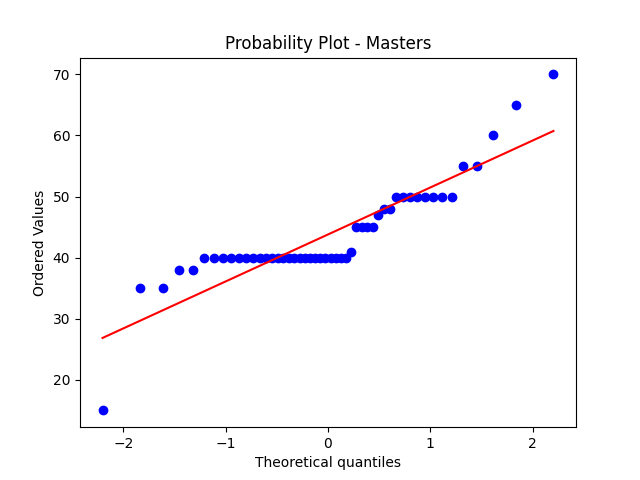
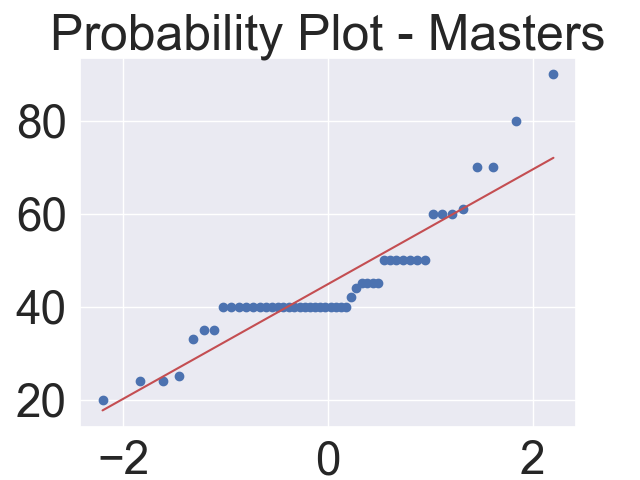
adjust

diff --git a/assetTesting.py b/assetTesting.py
@@ -7,10 +7,6 @@ import random
 from scipy.stats import chi2_contingency
 from scipy.stats import chi2
 
-# Numerical + categorical -> t-test
-# Chi-square -> 2 categorical
-# ANOVA test -> 2 numerical
-
 # ---------- Clean data ---------- #
 data = pd.read_csv("datasets3_csv.csv", sep=";", skipinitialspace=True)
 dataClean = data.copy()
@@ -48,27 +44,27 @@ evaluate = ['Income', 'Saving (Cash)', 'Property owner', 'Other asset']
 dataClean_categorical = dataClean.select_dtypes(exclude=['float'])
 dataClean_categorical.insert(0, 'Education (Year)', dataClean['Education (Year)'])
 
-# # Plotting diagram
-# for e in evaluate:
-#     for f in factors:
-#         g = sns.catplot(x=f, hue=e,
-#                         data=dataClean, kind='count',
-#                         height=8, aspect=2)
-#         g.fig.set_size_inches(30, 15)
-#         sns.set(font_scale=3)
-#
-#         for ax in g.axes.ravel():
-#             # add annotations
-#             for c in ax.containers:
-#                 if (f == 'Income'):
-#                     labels = [f'{(v.get_height() / 10):.1f}K' for v in c]
-#                     ax.bar_label(c, labels=labels, label_type='edge')
-#             if (f in long_factors):
-#                 ax.set_xticklabels(ax.get_xticklabels(), rotation=90)
-#
-#         plt.title(f'{f} vs {e} plot')
-#         plt.tick_params(axis='both', which='major', labelsize=14)
-#         plt.savefig(f'evaluateFactor/{f} vs {e}.png')
+# Plotting diagram
+for e in evaluate:
+    for f in factors:
+        g = sns.catplot(x=f, hue=e,
+                        data=dataClean, kind='count',
+                        height=8, aspect=2)
+        g.fig.set_size_inches(30, 15)
+        sns.set(font_scale=3)
+
+        for ax in g.axes.ravel():
+            # add annotations
+            for c in ax.containers:
+                if (f == 'Income'):
+                    labels = [f'{(v.get_height() / 10):.1f}K' for v in c]
+                    ax.bar_label(c, labels=labels, label_type='edge')
+            if (f in long_factors):
+                ax.set_xticklabels(ax.get_xticklabels(), rotation=90)
+
+        plt.title(f'{f} vs {e} plot')
+        plt.tick_params(axis='both', which='major', labelsize=14)
+        plt.savefig(f'evaluateFactor/{f} vs {e}.png')
 
 # Question Testing
 
@@ -167,23 +163,20 @@ for f in factors:
 
 # Anova Test: Average working hours versus education level
 # Q10:  What is the difference in average working hours among types of edu levels? - ANOVA
-# statistic, pvalue = stats.f_oneway(dataClean['Work hours per week'][dataClean['Education'] == 'Dropout'].head(2000),
-#                                     dataClean['Work hours per week'][dataClean['Education'] == 'HS-grad'].head(2000),
-#                                     dataClean['Work hours per week'][dataClean['Education'] == 'CommunityCollege'].head(2000),
-#                                     dataClean['Work hours per week'][dataClean['Education'] == 'Bachelor'].head(2000),
-#                                     dataClean['Work hours per week'][dataClean['Education'] == 'Postgrad'].head(2000))
 
-education_level = dataExtra["Education"]
-for column in education_level:
-    print("Education Level")
-    count = education_level.value_counts()
-    percent = education_level.value_counts(normalize=True).mul(100).round(2).astype(str) + '%'
-    edus_dataframe = pd.DataFrame({'Counts': count, 'Percent': percent})
-    edus_dataframe.to_csv('data_record/education_level_drop.csv')
-    print(pd.DataFrame({'Counts': count, 'Percent': percent}))
-    print('--------------------------------')
-    break
-
+# Group Education levels in 5 categories
+dropout = dataExtra['Work hours per week'][dataExtra['Education'] == 'Dropout'].head(2000)
+hsgrad = dataExtra['Work hours per week'][dataExtra['Education'] == 'HS-grad'].head(2000)
+community = dataExtra['Work hours per week'][dataExtra['Education'] == 'CommunityCollege'].head(2000)
+bachelors = dataExtra['Work hours per week'][dataExtra['Education'] == 'Bachelors'].head(2000)
+postgrad = dataExtra['Work hours per week'][dataExtra['Education'] == 'Postgrad'].head(2000)
+# Save them to csv file to test in jamovi
+dropout.to_csv('data_clean/dropout.csv')
+hsgrad.to_csv('data_clean/hsgrad.csv')
+community.to_csv('data_clean/com.csv')
+bachelors.to_csv('data_clean/bsc.csv')
+postgrad.to_csv('data_clean/postgrad.csv')
+# test ANOVA using Python library package scipy.stats
 statistic, pvalue = stats.f_oneway(dataExtra['Work hours per week'][dataExtra['Education'] == 'Dropout'].head(2000),
                                     dataExtra['Work hours per week'][dataExtra['Education'] == 'HS-grad'].head(2000),
                                     dataExtra['Work hours per week'][dataExtra['Education'] == 'CommunityCollege'].head(2000),
@@ -193,11 +186,11 @@ print('Q10:  What is the difference in average working hours among types of edu 
 print("f-statistic:" + str(statistic))
 print("p-value:" + str(pvalue))
 
-# # Plotting for ANOVA Test
-# edus = dataClean['Education'].unique()
-# for edu in edus:
-#     stats.probplot(dataClean[dataClean['Education'] == edu]['Work hours per week'].sample(50, replace=False), dist="norm", plot=plt)
-#     plt.title("Probability Plot - " +  edu)
-#     plt.savefig(f'anova_plot_wh_eduLevel/{edu}.png')
-#     plt.show()
+# Plotting for ANOVA Test
+edus = dataClean['Education'].unique()
+for edu in edus:
+    stats.probplot(dataClean[dataClean['Education'] == edu]['Work hours per week'].sample(50, replace=False), dist="norm", plot=plt)
+    plt.title("Probability Plot - " +  edu)
+    plt.savefig(f'anova_plot_wh_eduLevel/{edu}.png')
+    # plt.show()
 

diff --git a/plotCleanData.py b/plotCleanData.py
@@ -54,7 +54,7 @@ for item in dataClean.columns.values:
     # Set size of the plot
     if (item in hasBinaryLabel):
         figSize=(7, 7)
-    elif (item in hasExtraHeight): 
+    elif (item in hasExtraHeight):
         figSize=(12, 19)
     else:
         figSize=(16, 15)
@@ -96,7 +96,7 @@ for col in dataClean_categorical.columns:
                 data=dataClean, kind="count",
                 height=8, aspect=1.7)
     g.fig.set_size_inches(16, 9)
-    
+
     for ax in g.axes.ravel():
     # add annotations
         for c in ax.containers:
@@ -126,7 +126,7 @@ for item in data_boxplot.columns:
 
 # ---------- Preprocessing categorical data (Extra) ---------- #
 
-dataExtra = dataClean.copy()
++dataExtra = dataClean.copy()
 
 dataExtra['Education'].replace("Preschool", "Dropout", regex=True, inplace=True)
 dataExtra['Education'].replace("10th", "Dropout",regex=True, inplace=True)
@@ -136,16 +136,17 @@ dataExtra['Education'].replace("1st-4th", "Dropout",regex=True, inplace=True)
 dataExtra['Education'].replace("5th-6th", "Dropout",regex=True, inplace=True)
 dataExtra['Education'].replace("7th-8th", "Dropout",regex=True, inplace=True)
 dataExtra['Education'].replace("9th", "Dropout",regex=True, inplace=True)
+dataExtra['Education'].replace("HS-Grad", "HighGrad",regex=True, inplace=True)
+dataExtra['Education'].replace("HS-grad", "HighGrad",regex=True, inplace=True)
 dataExtra['Education'].replace("Some-college", "CommunityCollege",regex=True, inplace=True)
 dataExtra['Education'].replace("Assoc-acdm", "CommunityCollege",regex=True, inplace=True)
 dataExtra['Education'].replace("Assoc-voc", "CommunityCollege",regex=True, inplace=True)
 dataExtra['Education'].replace("Bachelors", "Bachelors",regex=True, inplace=True)
-dataExtra['Education'].replace("Masters", "Postgrad",regex=True, inplace=True)
-dataExtra['Education'].replace("Prof-school", "Postgrad",regex=True, inplace=True)
-dataExtra['Education'].replace("Doctorate", "Postgrad",regex=True, inplace=True)
+dataExtra['Education'].replace("Masters", "Masters",regex=True, inplace=True)
+dataExtra['Education'].replace("Prof-school", "Masters",regex=True, inplace=True)
+dataExtra['Education'].replace("Doctorate", "Doctorate",regex=True, inplace=True)
 
 dataExtra.to_csv("data_clean/dataextra.csv")
-
 # ---------- Extra plot ---------- #
 
 var, count = np.unique(dataExtra['Education'], return_counts = True)
@@ -160,7 +161,7 @@ g = sns.catplot(x='Education', hue='Income',
                 data=dataExtra, kind="count",
                 height=8, aspect=1.7)
 g.fig.set_size_inches(16, 9)
-    
+
 for ax in g.axes.ravel():
     # add annotations
     for c in ax.containers:
